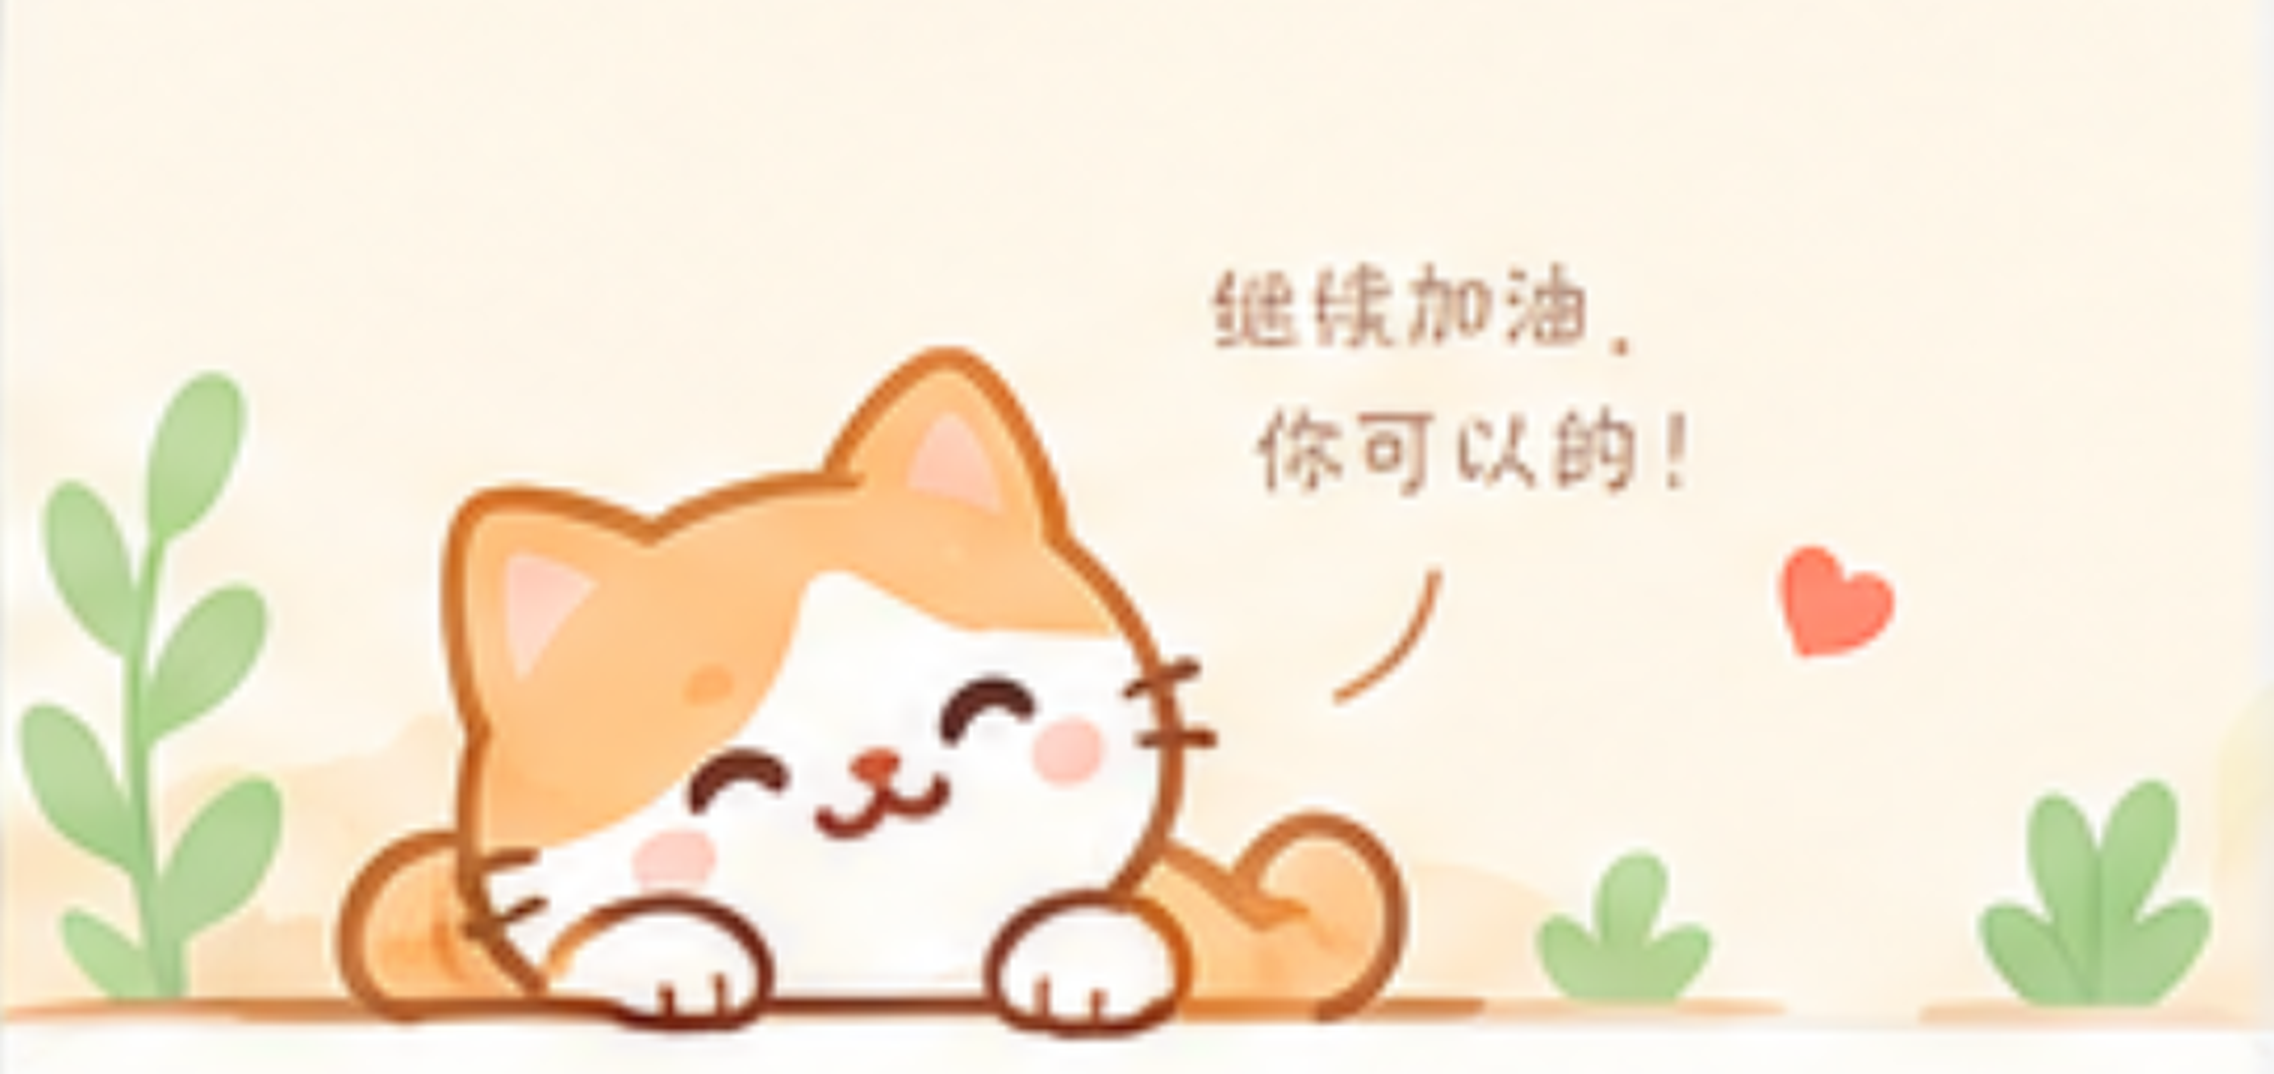
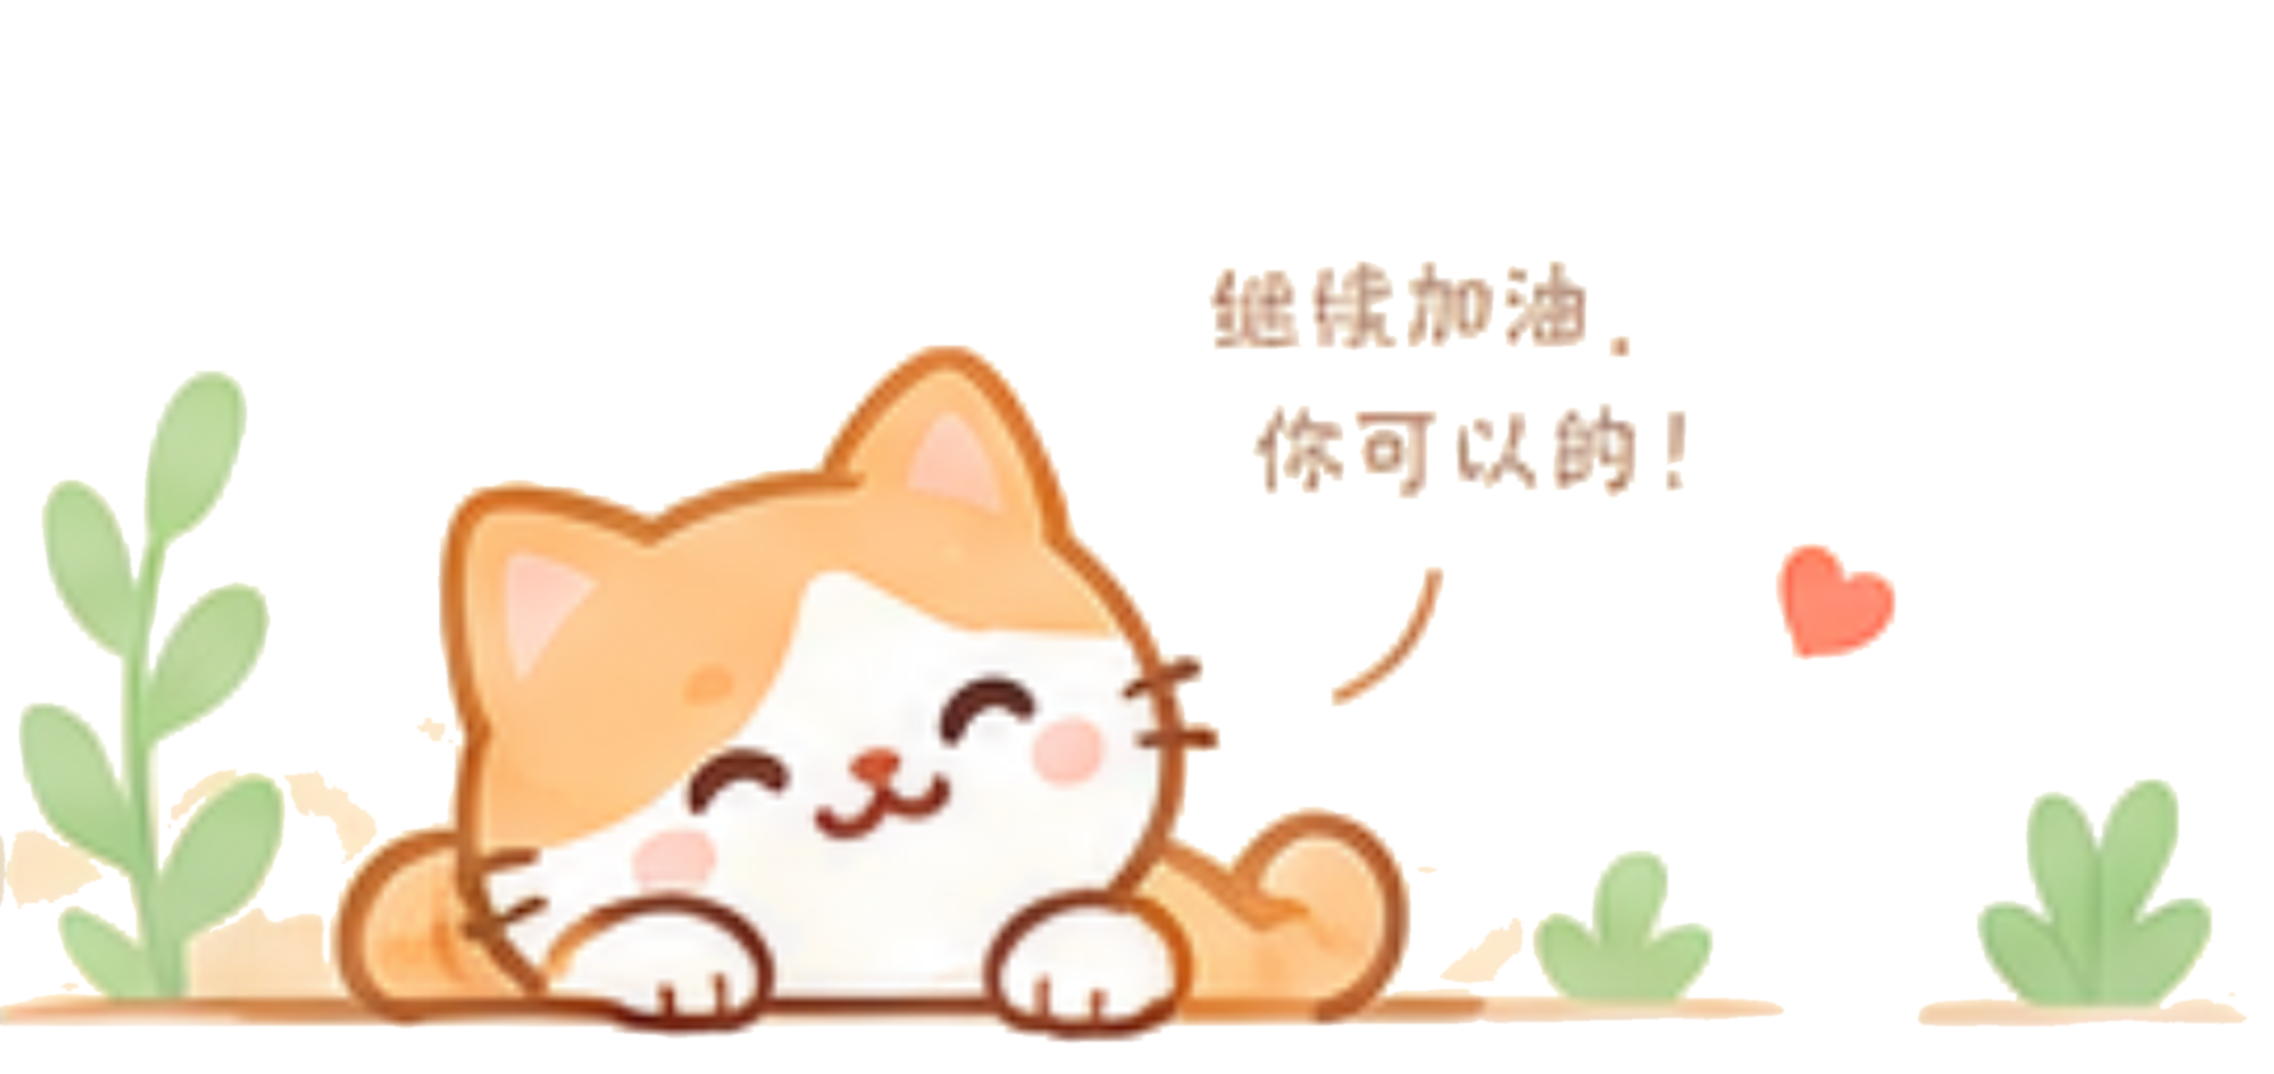
feat: 系统设置新增版本信息，我的页猫咪横幅改透明底，清理未引用图片
- 系统设置页新增「当前版本 / 检查更新」，版本号抽到 utils/config.js 的 APP_VERSION

- 「我的」页底部猫咪横幅 cat-cheer.png 改为透明底抠图（同尺寸同位置，去掉米色面板与边框）

- 删除 static 下未被引用的 logo.png / app-icon-1024.png / app-icon.png，主包从 2.6MB 降至 1.69MB

diff --git a/pages/settings/index.vue b/pages/settings/index.vue
@@ -7,11 +7,36 @@
 			<text class="nav-title">系统设置</text>
 			<view class="nav-placeholder"></view>
 		</view>
+
+		<view class="panel">
+			<view class="setting-row">
+				<view class="setting-main">
+					<text class="setting-title">当前版本</text>
+					<text class="setting-desc">喵呜打卡</text>
+				</view>
+				<text class="setting-value">v{{ version }}</text>
+			</view>
+			<view class="setting-row" @tap="checkUpdate">
+				<view class="setting-main">
+					<text class="setting-title">检查更新</text>
+					<text class="setting-desc">获取最新版本</text>
+				</view>
+				<image class="row-arrow" src="/static/icons/menu-chevron-right.svg" mode="aspectFit" />
+			</view>
+		</view>
 	</view>
 </template>
 
 <script>
+	import { APP_VERSION } from '@/utils/config'
+
 	export default {
+		data() {
+			return {
+				version: APP_VERSION,
+				checking: false
+			}
+		},
 		methods: {
 			goBack() {
 				uni.navigateBack({
@@ -20,6 +45,53 @@
 							url: '/pages/profile/index'
 						})
 					}
+				})
+			},
+			checkUpdate() {
+				if (this.checking) return
+				const updateManager = uni.getUpdateManager && uni.getUpdateManager()
+
+				if (!updateManager) {
+					uni.showToast({
+						title: '当前已是最新版本',
+						icon: 'none'
+					})
+					return
+				}
+
+				this.checking = true
+				uni.showLoading({
+					title: '检查更新中',
+					mask: true
+				})
+				updateManager.onCheckForUpdate((res) => {
+					uni.hideLoading()
+					this.checking = false
+					if (!res.hasUpdate) {
+						uni.showToast({
+							title: '当前已是最新版本',
+							icon: 'none'
+						})
+					}
+				})
+				updateManager.onUpdateReady(() => {
+					uni.hideLoading()
+					this.checking = false
+					uni.showModal({
+						title: '发现新版本',
+						content: '新版本已下载完成，是否立即重启应用？',
+						success: (res) => {
+							if (res.confirm) updateManager.applyUpdate()
+						}
+					})
+				})
+				updateManager.onUpdateFailed(() => {
+					uni.hideLoading()
+					this.checking = false
+					uni.showToast({
+						title: '新版本下载失败，请稍后重试',
+						icon: 'none'
+					})
 				})
 			}
 		}
@@ -74,6 +146,7 @@
 		background: rgba(255, 255, 255, 0.98);
 		border-radius: 28rpx;
 		box-shadow: 0 12rpx 30rpx rgba(212, 162, 94, 0.12);
+		overflow: hidden;
 	}
 
 	.setting-row {
@@ -81,6 +154,15 @@
 		align-items: center;
 		justify-content: space-between;
 		padding: 28rpx;
+	}
+
+	.setting-row + .setting-row {
+		border-top: 1rpx solid rgba(242, 231, 213, 0.92);
+	}
+
+	.setting-main {
+		flex: 1;
+		min-width: 0;
 	}
 
 	.setting-title {
@@ -95,5 +177,16 @@
 		margin-top: 10rpx;
 		color: #A08C77;
 		font-size: 22rpx;
+	}
+
+	.setting-value {
+		color: #A08C77;
+		font-size: 26rpx;
+	}
+
+	.row-arrow {
+		width: 34rpx;
+		height: 34rpx;
+		flex-shrink: 0;
 	}
 </style>

diff --git a/utils/config.js b/utils/config.js
@@ -1,1 +1,4 @@
 export const BASE_URL = 'http://43.143.211.94:8080'
+
+// 与 manifest.json 的 versionName 保持一致
+export const APP_VERSION = '1.0.0'
